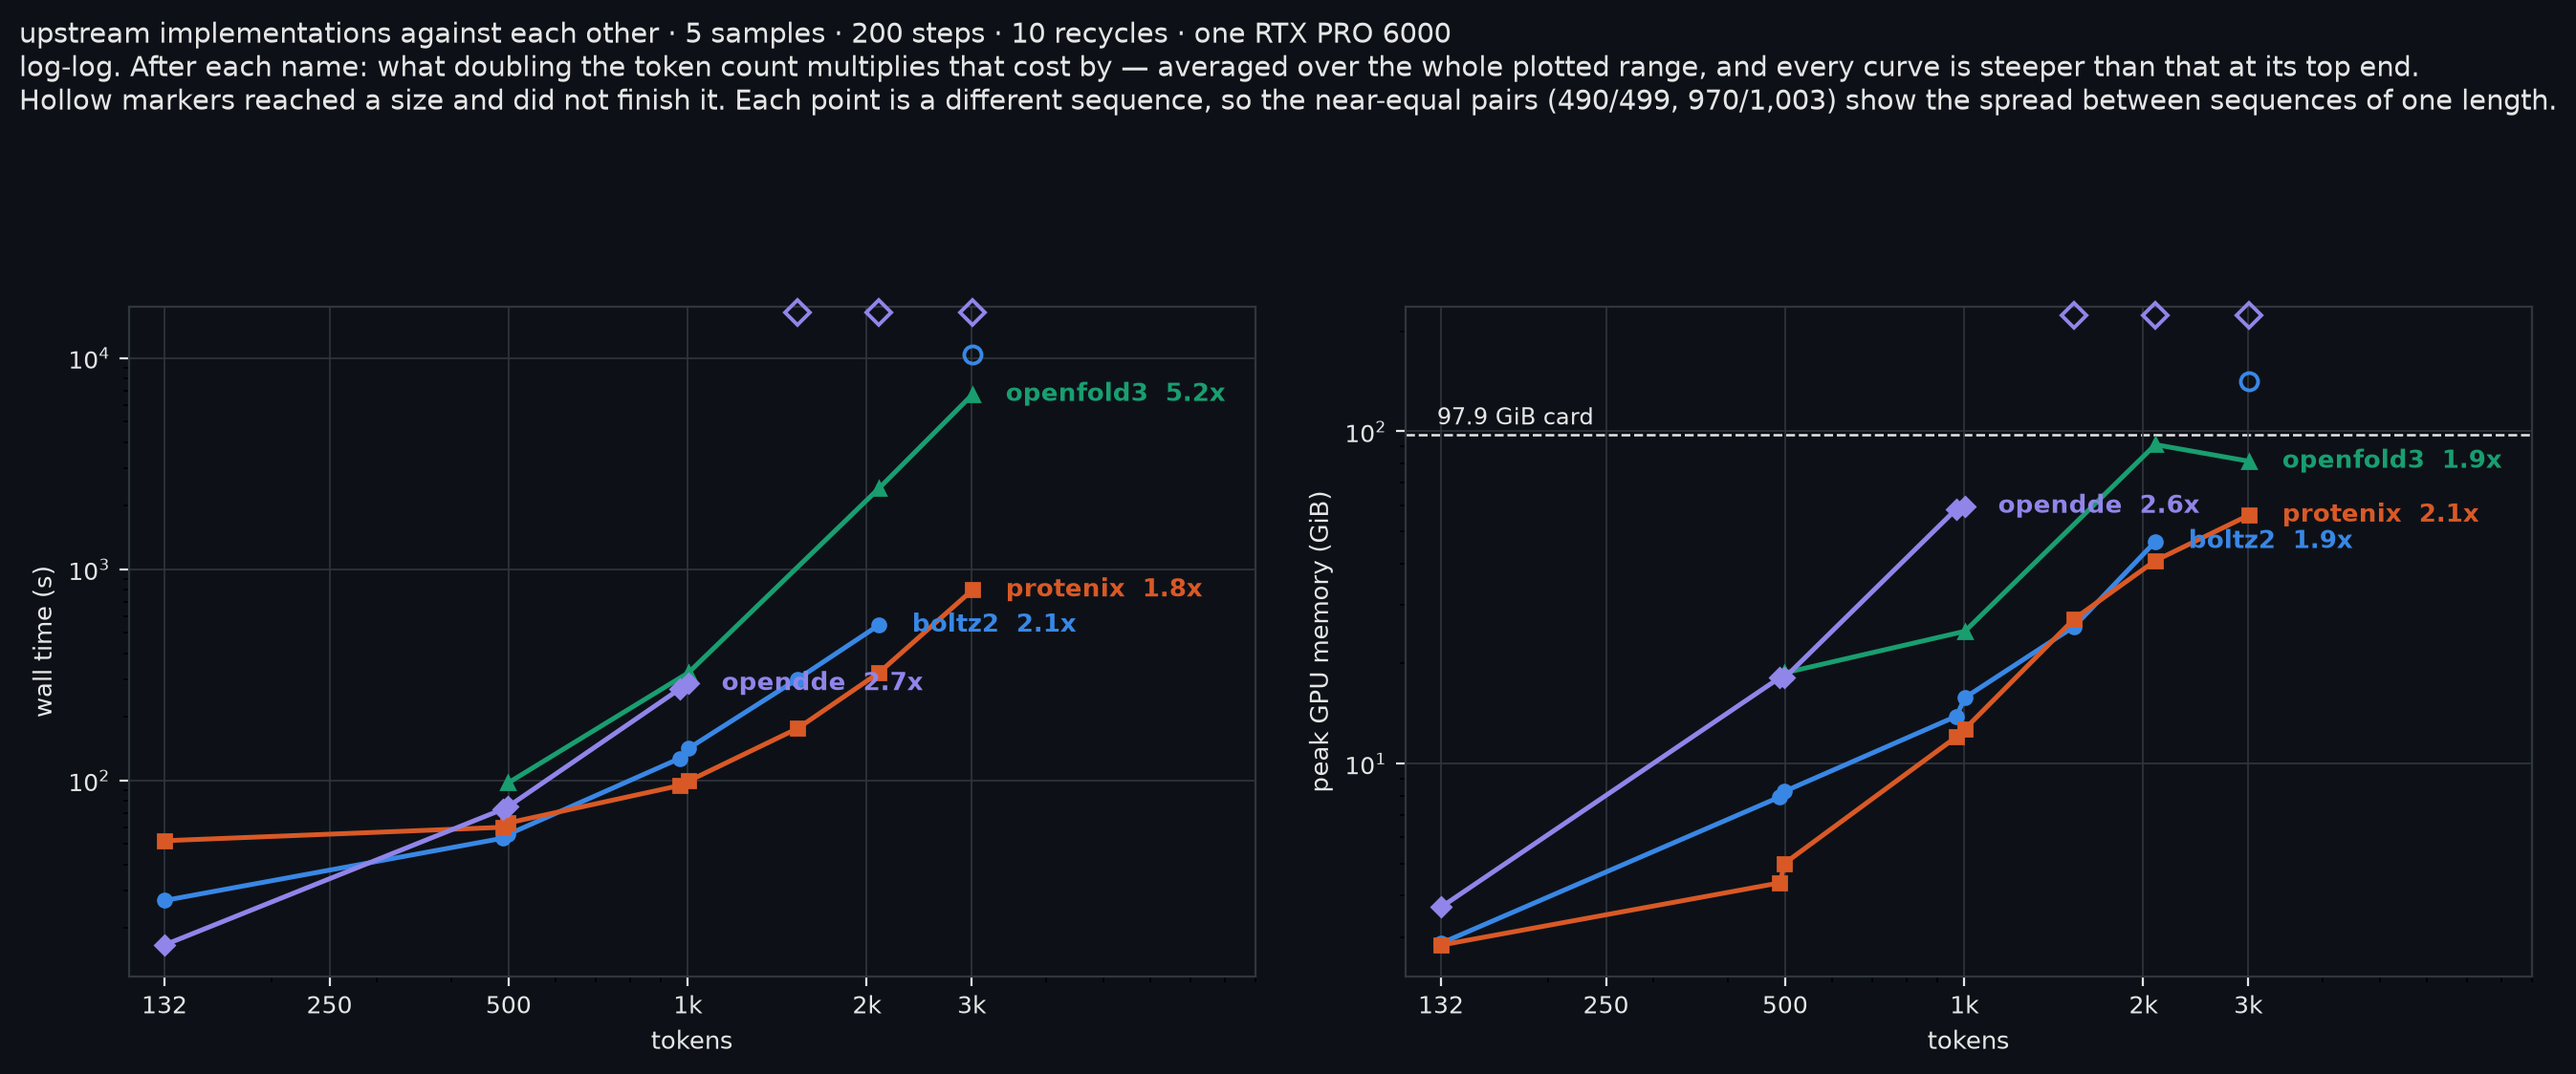
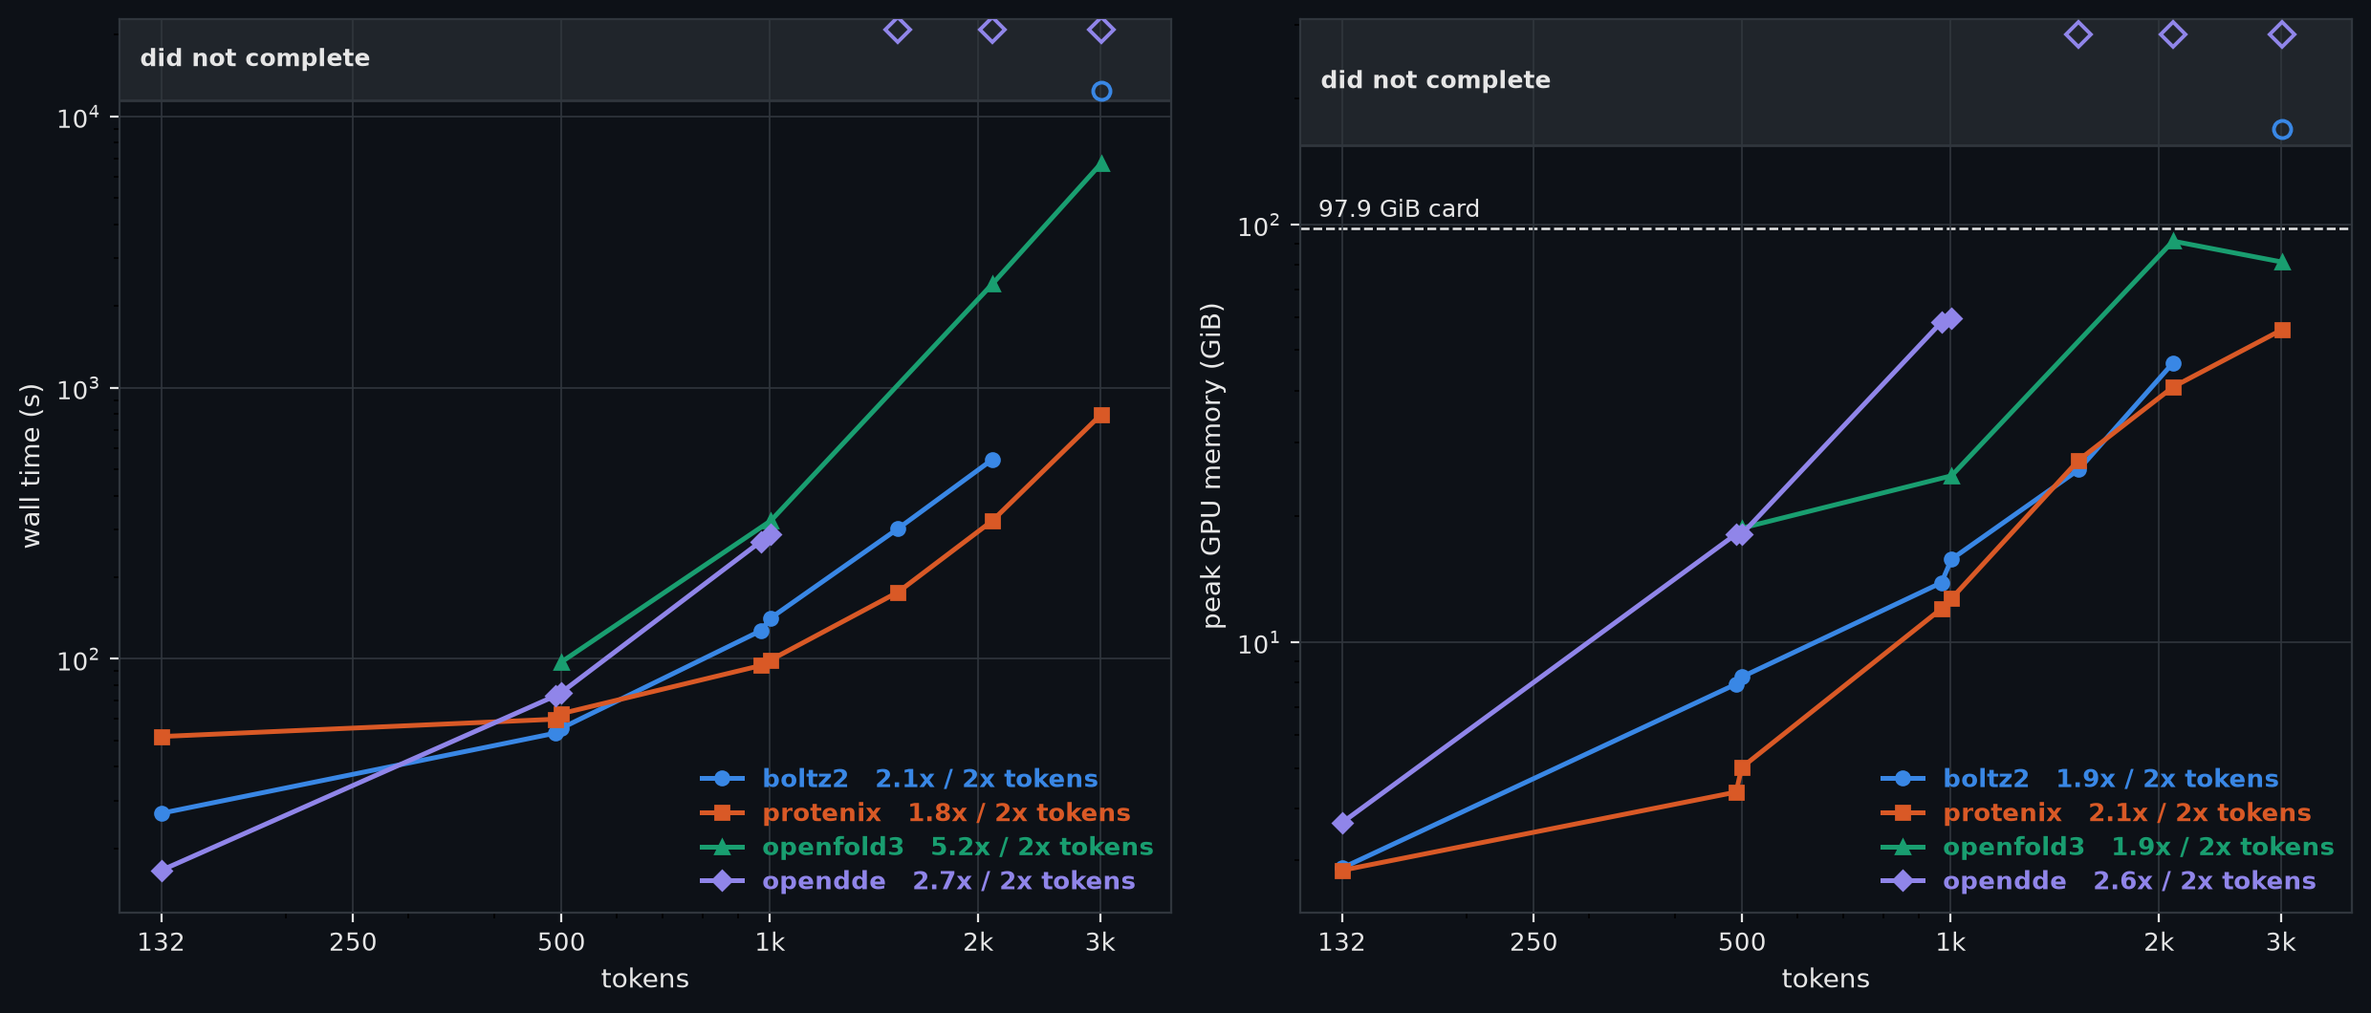
docs: the upstream figure carries no prose, and OpenFold3's dip has a cause
The figure had three lines of explanation printed on the canvas. It sits beside
the text that explains it, so the canvas now holds only the data: names move
into a per-panel legend carrying that panel's cost per doubling, and the runs
that did not complete get a shaded band of their own above the data rather than
markers floating where a reader has to decide whether they are measurements.

The OpenFold3 memory curve bending down from 2,096 to 3,012 tokens turned out
to be real and explicable rather than a bad point. Upstream defaults
`tune_chunk_size` to True (model_config.py:47) and binary-searches the largest
attention chunk that does not raise (chunk_utils.py). At 2,096 a large chunk
fits -- 93.4 GiB, 2,410 s. At 3,012 it does not, so it steps down: 83.2 GiB,
6,722 s. The peak fell because the time rose, by upstream's own choice, at a
size upstream chose. Both runs returned 0 with five samples.

So that point stays where it was measured. Interpolating it to somewhere more
plausible would have deleted the finding and left a figure that reads as
"OpenFold3 gets cheaper", which is the opposite of true.

diff --git a/docs/make_scaling_figure.py b/docs/make_scaling_figure.py
@@ -285,7 +285,21 @@ def render(grouped: dict, out: Path, *, theme: str) -> Path:
 
 
 def render_upstream(grouped: dict, out: Path, *, theme: str) -> Path:
-    """The four upstream implementations against each other, on one axes."""
+    """The four upstream implementations against each other, on one axes.
+
+    No prose on the canvas: the figure is meant to be read beside the text that
+    explains it, not to carry that text. Names go in a legend, each with what
+    doubling the token count multiplies that panel's cost by.
+
+    OpenFold3's memory falling from 2,096 to 3,012 tokens is not a bad point.
+    Upstream tunes its attention chunk size at runtime by binary-searching the
+    largest chunk that does not raise (`chunk_utils.py:_determine_favorable_
+    chunk_size`), so at 3,012 the large chunks it used at 2,096 no longer fit,
+    it drops to a smaller one, and the peak comes down while the wall time goes
+    from 2,410 s to 6,722 s. Memory traded for time, visible only if both
+    panels are read together -- which is why interpolating that point to
+    somewhere more plausible would delete the finding.
+    """
     import matplotlib
 
     matplotlib.use("Agg")
@@ -297,81 +311,89 @@ def render_upstream(grouped: dict, out: Path, *, theme: str) -> Path:
     models = [name for name in MODELS if name in palette and name in grouped]
 
     figure, axes = plt.subplots(
-        1, len(METRICS), figsize=(13.5, 5.6), dpi=200, facecolor=bg, squeeze=False
+        1, len(METRICS), figsize=(12.5, 5.4), dpi=200, facecolor=bg, squeeze=False
     )
 
     for column, (metric, ylabel, scale) in enumerate(METRICS):
         axis = axes[0][column]
         axis.set_facecolor(bg)
-        top = 1.0
-        for model in models:
+        index = 1 if metric == "wall_s" else 2
+        top = max(
+            (value[index] * scale for model in models
+             for value in grouped[model].get("upstream", {}).get("ok", [])),
+            default=1.0,
+        )
+        # The failures live in a band of their own above the data, so a reader
+        # never has to decide whether a marker up there is a measurement.
+        floor, ceiling = top * 1.7, top * 3.4
+        axis.axhspan(floor, ceiling, color=grid, alpha=0.55, zorder=0, lw=0)
+        axis.axhline(floor, color=grid, linewidth=1.0, zorder=1)
+        axis.text(
+            123, (floor * ceiling) ** 0.5, "did not complete", color=fg,
+            fontsize=9, fontweight="bold", va="center", ha="left", zorder=5,
+        )
+
+        handles, labels = [], []
+        for order, model in enumerate(models):
             side = grouped[model].get("upstream")
             if side is None:
                 continue
             color = palette[model]
-            index = 1 if metric == "wall_s" else 2
             points = [(value[0], value[index] * scale) for value in side["ok"]]
-            if not points:
-                continue
-            top = max(top, max(y for _, y in points))
-            axis.plot(
-                [x for x, _ in points], [y for _, y in points], color=color,
-                linewidth=1.8, marker=MARKERS[model], markersize=5, zorder=3,
-            )
-            fitted = exponent([(value[0], value[index]) for value in side["ok"]])
-            # The label at the line's end, not a legend: four lines that cross
-            # cannot be traced back to a box in the corner, and this is also
-            # the relief the light surface needs where a hue falls below 3:1.
-            tail = f"  {model}" + (f"  {growth(fitted)}" if fitted else "")
-            axis.annotate(
-                tail, xy=points[-1], xytext=(6, 0),
-                textcoords="offset points", color=color, fontsize=9.5,
-                va="center", ha="left", zorder=5, fontweight="bold",
-            )
-        for index, model in enumerate(models):
-            side = grouped[model].get("upstream")
-            for tokens in (side or {}).get("failed", []):
+            if points:
+                line, = axis.plot(
+                    [x for x, _ in points], [y for _, y in points], color=color,
+                    linewidth=1.8, marker=MARKERS[model], markersize=5, zorder=3,
+                )
+                fitted = exponent(
+                    [(value[0], value[index]) for value in side["ok"]]
+                )
+                handles.append(line)
+                labels.append(
+                    f"{model}" + (f"   {growth(fitted)} / 2x tokens" if fitted else "")
+                )
+            for slot, tokens in enumerate(side["failed"]):
                 # Staggered by model: two implementations failing at the same
                 # size would otherwise draw one marker on top of another, and
                 # the figure would report one failure where there were two.
                 axis.plot(
-                    [tokens], [top * (1.55 + 0.30 * index)], marker=MARKERS[model],
-                    markersize=6.5, markerfacecolor="none",
-                    markeredgecolor=palette[model], markeredgewidth=1.4,
-                    zorder=4, clip_on=False,
+                    [tokens],
+                    [floor * (ceiling / floor) ** ((order + 0.5) / len(models))],
+                    marker=MARKERS[model], markersize=6.5,
+                    markerfacecolor="none", markeredgecolor=color,
+                    markeredgewidth=1.4, zorder=4,
                 )
+                del slot
 
         axis.set_xscale("log")
         axis.set_yscale("log")
-        axis.set_xlim(115, 9000)
-        axis.set_ylim(None, top * 2.6)
+        axis.set_xlim(115, 3800)
+        axis.set_ylim(None, ceiling)
         axis.set_xticks([132, 250, 500, 1000, 2000, 3000])
         axis.set_xticklabels(["132", "250", "500", "1k", "2k", "3k"])
         axis.xaxis.set_minor_formatter(matplotlib.ticker.NullFormatter())
-        axis.set_xlabel("tokens", color=fg, fontsize=9.5)
-        axis.set_ylabel(ylabel, color=fg, fontsize=9.5)
+        axis.set_xlabel("tokens", color=fg, fontsize=10)
+        axis.set_ylabel(ylabel, color=fg, fontsize=10)
         axis.grid(color=grid, linewidth=0.6, zorder=0)
-        axis.tick_params(colors=fg, labelsize=9)
+        axis.tick_params(colors=fg, labelsize=9.5)
         for spine in axis.spines.values():
             spine.set_color(grid)
         if metric == "peak_mib":
             axis.axhline(97.9, color=fg, linewidth=0.9, linestyle="--", zorder=1)
             axis.text(
-                130, 101, "97.9 GiB card", color=fg, fontsize=8.5, va="bottom",
+                122, 101, "97.9 GiB card", color=fg, fontsize=9, va="bottom",
             )
+        # Lower right: the only quadrant both panels leave empty, since every
+        # curve climbs left to right. Upper left is the failure band.
+        legend = axis.legend(
+            handles, labels, loc="lower right", frameon=False, fontsize=9.5,
+            labelcolor="linecolor", handlelength=1.6, borderpad=0.2,
+            labelspacing=0.35,
+        )
+        for text in legend.get_texts():
+            text.set_fontweight("bold")
 
-    figure.suptitle(
-        "upstream implementations against each other · 5 samples · 200 steps · "
-        "10 recycles · one RTX PRO 6000\n"
-        "log-log. After each name: what doubling the token count multiplies "
-        "that cost by — averaged over the whole plotted range, and every curve "
-        "is steeper than that at its top end.\n"
-        "Hollow markers reached a size and did not finish it. Each point is a "
-        "different sequence, so the near-equal pairs (490/499, 970/1,003) show "
-        "the spread between sequences of one length.",
-        color=fg, fontsize=10.5, x=0.006, ha="left", va="top", y=0.995,
-    )
-    figure.tight_layout(rect=(0, 0, 1, 0.875))
+    figure.tight_layout()
     out.parent.mkdir(parents=True, exist_ok=True)
     figure.savefig(out, facecolor=bg, bbox_inches="tight")
     plt.close(figure)

diff --git a/docs/benchmark.md b/docs/benchmark.md
@@ -84,9 +84,8 @@ the average at the small end.
   what runs out first anyway.** OpenDDE is the exception and fails earliest:
   3.6x per doubling on two surviving points, 45.4 GiB already at 1,003 tokens.
 - **OpenFold3 upstream's memory falls from 93.4 GiB at 2,096 tokens to 83.2 at
-  3,012** -- drawn as measured. A peak that drops as the input grows is a
-  size-triggered path change, not a saving; it is unexplained here and should
-  not be read as one until someone reads that code.
+  3,012, and that is not a saving** -- see below. It is the one series here
+  whose memory panel cannot be read without its time panel.
 
 Hollow markers are sizes a run reached and did not finish. They are drawn
 rather than dropped: omitting them would bend a curve into a claim that the
@@ -112,12 +111,22 @@ Each point is a different sequence, so the near-equal pairs (490/499,
 can differ, which is the noise floor for reading any single point.
 
 - **OpenFold3's upstream is the steepest thing here, 5.2x per doubling**, and
-  its caveat is below: it reaches no fused kernel on this card and chunks
-  attention four rows at a time at every size.
+  part of that steepness is why its memory curve bends down. Upstream tunes its
+  attention chunk size at runtime, binary-searching the largest chunk that does
+  not raise (`chunk_utils.py`, `tune_chunk_size` defaults to `True` in
+  `model_config.py:47`). At 2,096 tokens a large chunk fits: 93.4 GiB, 2,410 s.
+  At 3,012 it does not, so the search falls back to a smaller one: 83.2 GiB,
+  6,722 s. **The peak came down because the time went up** -- memory traded for
+  time by the implementation itself, at a size it chose. Reading either panel
+  alone gets this backwards, which is also why that point is drawn where it was
+  measured rather than interpolated to somewhere more plausible.
 - **Protenix's upstream has the flattest curve (1.8x) and the highest floor** --
   52 s at 132 tokens, where OpenDDE's takes 17. Below ~500 tokens it is the
-  slowest of the four and above ~1,000 it is the fastest.
-- **OpenDDE's upstream stops at 1,003 tokens.** Everything past it is hollow.
+  slowest of the four and above ~1,000 it is the fastest. That crossing is only
+  visible because the small sizes are plotted; a sweep starting at 499 tokens
+  would have said "Protenix is faster" without qualification.
+- **OpenDDE's upstream stops at 1,003 tokens.** Everything past it is in the
+  band.
 
 <!-- -->
 
